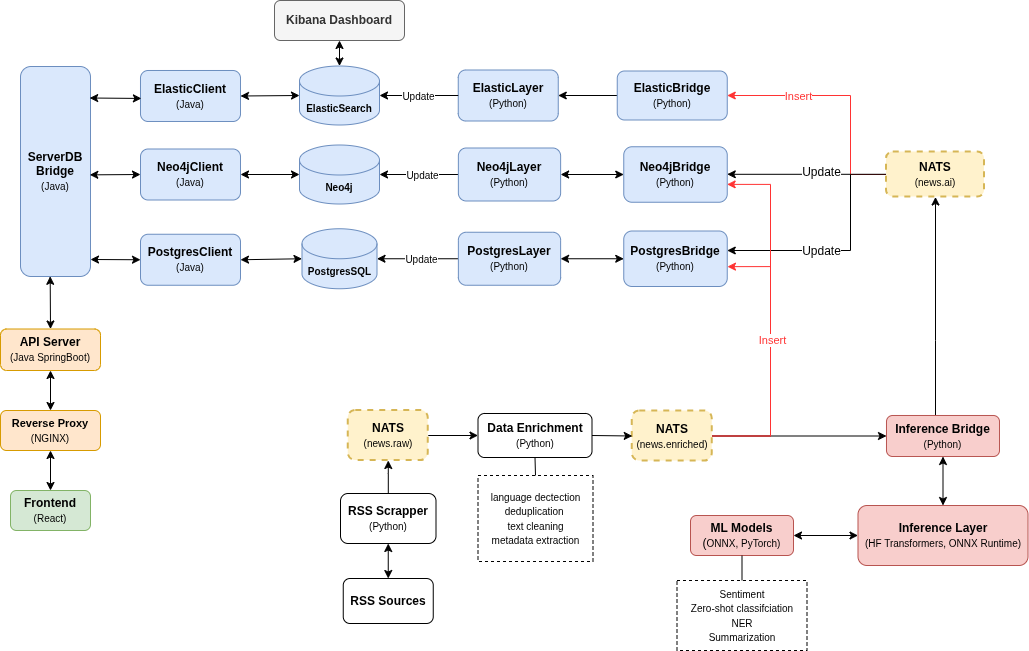
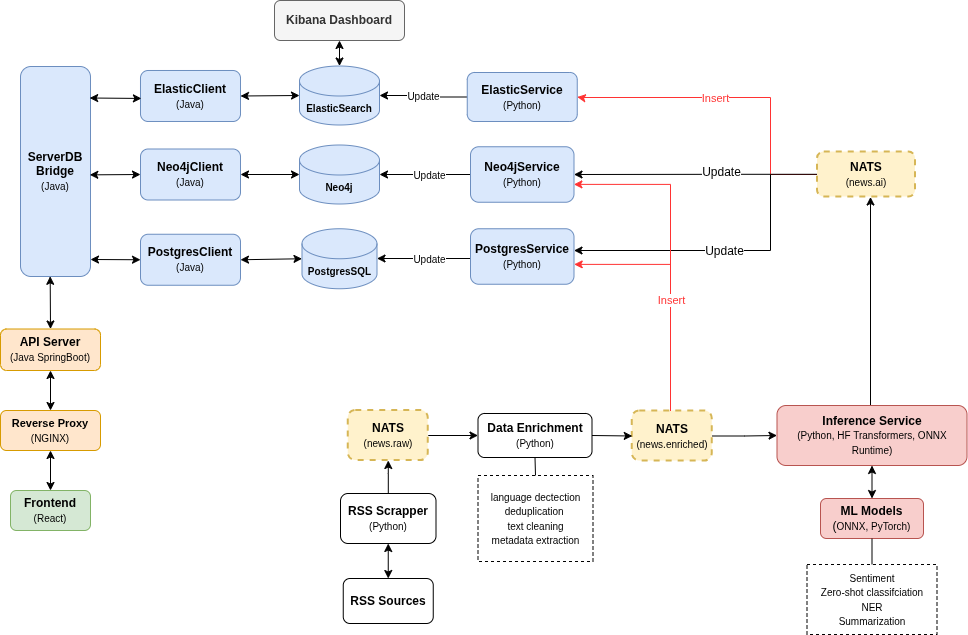
refactor.: Restructured the project

diff --git a/backend/api_server/api/src/main/java/com/example/news/api/controllers/AnalysisController.java b/backend/api_server/api/src/main/java/com/example/news/api/controllers/AnalysisController.java
@@ -1,0 +1,91 @@
+package com.example.news.api.controllers;
+import java.io.IOException;
+import java.sql.SQLException;
+import java.util.List;
+
+import org.springframework.web.bind.annotation.*;
+
+import com.example.dto.EventTrackerDTO;
+import com.example.dto.GlobalEntityTrendsDTO;
+import com.example.dto.GlobalTrendsDTO;
+import com.example.dto.InferenceNews;
+import com.example.dto.PowerCoupleDTO;
+import com.example.dto.SpatialMapDTO;
+import com.example.dto.VolatilityIndexDTO;
+import com.example.service.ServerDbBridge;
+
+@RestController
+@CrossOrigin(origins = "http://localhost:5173")
+@RequestMapping("/api/analysis")
+public class AnalysisController {
+
+    private final ServerDbBridge bridgeClient;
+    public AnalysisController() {
+        this.bridgeClient = new ServerDbBridge();
+    }
+
+    @GetMapping("/global_trends")
+    public GlobalTrendsDTO getGlobalTrendsWithRelativeInterval(
+        @RequestParam String intervalUnit, 
+        @RequestParam int amount
+    ) throws IOException {
+        GlobalTrendsDTO trendResult = this.bridgeClient.getGlobalTrendsWithRelativeInterval(intervalUnit,amount);
+        return trendResult;
+    }
+
+    @GetMapping("/global_entity_trends")
+    public GlobalEntityTrendsDTO getGlobalEntityWithRelativeInterval(
+        @RequestParam String intervalUnit, 
+        @RequestParam int amount
+    )throws IOException {
+        GlobalEntityTrendsDTO trendResult = this.bridgeClient.getGlobalEntityWithRelativeInterval(intervalUnit,amount);
+        return trendResult;
+    }
+
+    @GetMapping("/impact_articles")
+    public List<InferenceNews> getImpactArticlesWithRelativeInterval(
+        @RequestParam String intervalUnit, 
+        @RequestParam int amount, 
+        @RequestParam int topN, 
+        @RequestParam boolean isPositive
+    ) throws IOException{
+        List<InferenceNews> newsResult = this.bridgeClient.getImpactArticlesWithRelativeInterval(intervalUnit,amount,topN,isPositive);
+        return newsResult;        
+    }
+
+    @GetMapping("/spatial_map")
+    public List<SpatialMapDTO> getSpatialMapWithRelativeInterval (
+        @RequestParam String intervalUnit, 
+        @RequestParam int amount
+    )throws SQLException {
+        List<SpatialMapDTO> result = this.bridgeClient.getSpatialMapWithRelativeInterval(intervalUnit, amount);
+        return result;
+    }
+
+    @GetMapping("/power_couple")
+    public List<PowerCoupleDTO> getPowerCoupleWithRelativeInterval (
+        @RequestParam String intervalUnit, 
+        @RequestParam int amount
+    )throws SQLException {
+        List<PowerCoupleDTO> result = this.bridgeClient.getPowerCoupleWithRelativeInterval(intervalUnit, amount);
+        return result;
+    }
+
+    @GetMapping("/event_tracker")
+    public List<EventTrackerDTO> getEventTrackerWithRelativeInterval (
+        @RequestParam String intervalUnit, 
+        @RequestParam int amount
+    )throws SQLException {
+        List <EventTrackerDTO> result = this.bridgeClient.getEventTrackerWithRelativeInterval(intervalUnit, amount);
+        return result;
+    }
+
+    @GetMapping("/volatility_index")
+    public List<VolatilityIndexDTO> getVolatilityIndexWithRelativeInterval (
+        @RequestParam String intervalUnit, 
+        @RequestParam int amount
+    )throws SQLException {
+        List <VolatilityIndexDTO> result = this.bridgeClient.getVolatilityIndexWithRelativeInterval(intervalUnit, amount);
+        return result;
+    }
+}

diff --git a/backend/core/core/src/main/java/com/example/service/ServerDbBridge.java b/backend/core/core/src/main/java/com/example/service/ServerDbBridge.java
@@ -4,20 +4,30 @@ import java.sql.*;
 import java.io.IOException;
 import com.example.service.ElasticClient;
 import com.example.service.PostgresClient;
+import com.example.utils.AggregationInterval;
+import com.example.service.Neo4jClient;
+
 import java.util.ArrayList;
 import java.util.List;
 
 import com.example.dto.GlobalTrendsDTO;
+import com.example.dto.EventTrackerDTO;
 import com.example.dto.GlobalEntityTrendsDTO;
 import com.example.dto.NewsDTO;
+import com.example.dto.PowerCoupleDTO;
+import com.example.dto.SpatialMapDTO;
+import com.example.dto.VolatilityIndexDTO;
 import com.example.dto.InferenceNews;
 
 public class ServerDbBridge {
     private final ElasticClient elasticClient;
     private final PostgresClient postgresClient;
+    private final Neo4jClient neo4jClient;
 
     public ServerDbBridge() {
         this.elasticClient = new ElasticClient();
+        this.neo4jClient = new Neo4jClient();
+
         PostgresClient tempClient;
         try{
             tempClient = new PostgresClient();
@@ -51,5 +61,25 @@ public class ServerDbBridge {
     public List<InferenceNews> getImpactArticlesWithRelativeInterval(String intervalUnit, int amount, int topN, boolean isPositive) throws IOException {
         List<InferenceNews> newsResult = this.elasticClient.getImpactArticlesWithRelativeInterval(intervalUnit,amount,topN,isPositive);
         return newsResult;
-    }   
+    }
+    
+    public List<SpatialMapDTO> getSpatialMapWithRelativeInterval (String intervalUnit, int amount)throws SQLException {
+        List<SpatialMapDTO> result = this.postgresClient.getSpatialMapWithRelativeInterval(intervalUnit, amount);
+        return result;
+    }
+
+    public List<PowerCoupleDTO> getPowerCoupleWithRelativeInterval (String intervalUnit, int amount)throws SQLException {
+        List<PowerCoupleDTO> result = this.postgresClient.getPowerCoupleWithRelativeInterval(intervalUnit, amount);
+        return result;
+    }
+
+    public List<EventTrackerDTO> getEventTrackerWithRelativeInterval (String intervalUnit, int amount)throws SQLException {
+        List <EventTrackerDTO> result = this.postgresClient.getEventTrackerWithRelativeInterval(intervalUnit, amount);
+        return result;
+    }
+
+    public List<VolatilityIndexDTO> getVolatilityIndexWithRelativeInterval (String intervalUnit, int amount)throws SQLException {
+        List <VolatilityIndexDTO> result = this.postgresClient.getVolatilityIndexWithRelativeInterval(intervalUnit, amount);
+        return result;
+    }
 }

diff --git a/backend/api_server/api/src/main/java/com/example/news/api/controllers/NewsController.java b/backend/api_server/api/src/main/java/com/example/news/api/controllers/NewsController.java
@@ -1,16 +1,10 @@
 package com.example.news.api.controllers;
 
-import org.springframework.web.bind.annotation.*;
-
 import java.util.List;
-import java.io.IOException;
 import java.sql.*;
 
-import com.example.dto.GlobalTrendsDTO;
-import com.example.dto.GlobalEntityTrendsDTO;
+import org.springframework.web.bind.annotation.*;
 import com.example.dto.NewsDTO;
-import com.example.dto.InferenceNews;
-
 import com.example.service.ServerDbBridge;
 
 @RestController
@@ -36,36 +30,6 @@ public class NewsController {
     ) throws SQLException {
         NewsDTO foundNews = this.bridgeClient.getNewsByLink(link);
         return foundNews;
-    }
-
-    @GetMapping("/global_trends")
-    public GlobalTrendsDTO getGlobalTrendsWithRelativeInterval(
-        @RequestParam String intervalUnit, 
-        @RequestParam int amount
-    ) throws IOException {
-        GlobalTrendsDTO trendResult = this.bridgeClient.getGlobalTrendsWithRelativeInterval(intervalUnit,amount);
-        return trendResult;
-    }
-
-
-    @GetMapping("/global_entity_trends")
-    public GlobalEntityTrendsDTO getGlobalEntityWithRelativeInterval(
-        @RequestParam String intervalUnit, 
-        @RequestParam int amount
-    )throws IOException {
-        GlobalEntityTrendsDTO trendResult = this.bridgeClient.getGlobalEntityWithRelativeInterval(intervalUnit,amount);
-        return trendResult;
-    }
-
-    @GetMapping("/impact_articles")
-    public List<InferenceNews> getImpactArticlesWithRelativeInterval(
-        @RequestParam String intervalUnit, 
-        @RequestParam int amount, 
-        @RequestParam int topN, 
-        @RequestParam boolean isPositive
-    ) throws IOException{
-        List<InferenceNews> newsResult = this.bridgeClient.getImpactArticlesWithRelativeInterval(intervalUnit,amount,topN,isPositive);
-        return newsResult;        
     }
 
 }

diff --git a/backend/api_server/api/src/main/java/com/example/news/api/controllers/DiscoveryController.java b/backend/api_server/api/src/main/java/com/example/news/api/controllers/DiscoveryController.java
@@ -1,0 +1,16 @@
+package com.example.news.api.controllers;
+
+import org.springframework.web.bind.annotation.*;
+import com.example.service.ServerDbBridge;
+
+@RestController
+@CrossOrigin(origins = "http://localhost:5173")
+@RequestMapping("/api/discovery")
+public class DiscoveryController {
+    private final ServerDbBridge bridgeClient;
+    public DiscoveryController() {
+        this.bridgeClient = new ServerDbBridge();
+    }
+
+
+}

diff --git a/data_pipeline/db_layer/elastic_service/elastic_bridge.py b/data_pipeline/db_layer/elastic_service/elastic_bridge.py
@@ -3,7 +3,7 @@ import asyncio
 from nats.aio.client import Client as NATS
 import nats 
 from datetime import datetime, timezone
-from data_pipeline.db_layer.elastic_layer import ElasticLayer
+from data_pipeline.db_layer.elastic_service.elastic_layer import ElasticLayer
 
 import os
 from dotenv import load_dotenv

diff --git a/data_pipeline/db_layer/postgres_service/postgres_bridge.py b/data_pipeline/db_layer/postgres_service/postgres_bridge.py
@@ -5,7 +5,7 @@ from nats.aio.client import Client as NATS
 import nats 
 from datetime import datetime, timezone
 
-from data_pipeline.db_layer.postgres_layer import PostgresLayer
+from data_pipeline.db_layer.postgres_service.postgres_layer import PostgresLayer
 
 import os
 from dotenv import load_dotenv

diff --git a/ai/inference/inference_service/inference_bridge.py b/ai/inference/inference_service/inference_bridge.py
@@ -4,7 +4,7 @@ from nats.aio.client import Client as NATS
 import nats 
 import hashlib
 
-from ai.inference.inference_service import InferenceService
+from ai.inference.inference_service.inference_service import InferenceService
 
 import os
 from dotenv import load_dotenv
